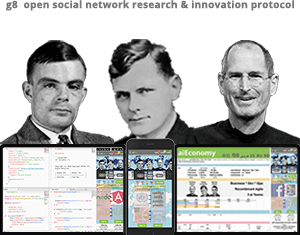
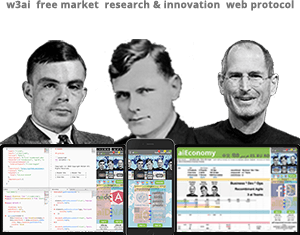
changed title to taskmart

Changed region(s): [[0.0, 0.0, 0.99, 0.0596]]

diff --git a/src/app/welcome/welcome.component.ts b/src/app/welcome/welcome.component.ts
@@ -760,52 +760,52 @@ export class WelcomeComponent implements OnInit, AfterContentInit {
 
   // Continuation callbacks for Project Owner / Governance
   animPoInDone() {
-    this.po_script_in = '<g1> status -';
+    this.po_script_in = '<m1> status -';
     this.po_in_state = 'off';
     this.po_mid_state = 'on';
     this.prjStateImgPath = 'url(/assets/img/dna/';
     this.prjStateImg[0] = 'gtt';
   }
   animPoMidDone() {
-    this.po_script_mid = '<g2> rates -';
+    this.po_script_mid = '<m2> rates -';
     this.po_mid_state = 'off';
     this.po_out_state = 'on';
     this.prjStateImg[0] = 'gnt';
   }
   animPoOutDone() {
-    this.po_script_out = '<g3> terms -';
+    this.po_script_out = '<m3> terms -';
     this.po_out_state = 'off';
     this.po_deal_state = 'on';
     this.prjStateImg[0] = 'ggn';
   }
   animPoDealDone() {
-    this.po_script_deal = '<g4> booked -';
+    this.po_script_deal = '<m4> booked -';
     this.po_deal_state = 'off';
     this.ps_in_state = 'on';    // 'on' - if there is a deal to plan execution
     this.prjStateImg[0] = 'ggg';
   }
   // Continuation callbacks for Project Status / Execution
   animPsInDone() {
-    this.ps_script_in = '<g5> inputs -';
+    this.ps_script_in = '<m5> inputs -';
     this.ps_in_state = 'off';
     this.ps_mid_state = 'on';
     this.prjStateImgPath = 'url(/assets/img/dna/';
     this.prjStateImg[0] = 'tgt_ttg_tnt';
   }
   animPsMidDone() {
-    this.ps_script_mid = '<g6> result -';
+    this.ps_script_mid = '<m6> result -';
     this.ps_mid_state = 'off';
     this.ps_out_state = 'on';
     this.prjStateImg[0] = 'ttg_tgt_ntt';
   }
   animPsOutDone() {
-    this.ps_script_out = '<g7> tests -';
+    this.ps_script_out = '<m7> tests -';
     this.ps_out_state = 'off';
     this.ps_deal_state = 'on';
     this.prjStateImg[0] = 'tgt_gtt_ttt';
   }
   animPsDealDone() {
-    this.ps_script_deal = '<g8> paid -';
+    this.ps_script_deal = '<m8> paid -';
     this.ps_deal_state = 'off';
     // Task was executed and Project Manager to schedule/approve payment
     this.prjStateImg[0] = 'ntt';
@@ -813,52 +813,52 @@ export class WelcomeComponent implements OnInit, AfterContentInit {
 
   // Continuation callbacks for Service Owner / Governance
   animSoInDone() {
-    this.so_script_in = '- status </g1> ✔';
+    this.so_script_in = '- status </m1> ✔';
     this.so_in_state = 'off';
     this.so_mid_state = 'on';
     this.srvStateImgPath = 'url(/assets/img/rna/';
     this.srvStateImg[0] = 'gtt';
   }
   animSoMidDone() {
-    this.so_script_mid = '- rates </g2> ✔';
+    this.so_script_mid = '- rates </m2> ✔';
     this.so_mid_state = 'off';
     this.so_out_state = 'on';
     this.srvStateImg[0] = 'gnt';
   }
   animSoOutDone() {
-    this.so_script_out = '- terms </g3> ✔';
+    this.so_script_out = '- terms </m3> ✔';
     this.so_out_state = 'off';
     this.so_deal_state = 'on';
     this.srvStateImg[0] = 'ggn';
   }
   animSoDealDone() {
-    this.so_script_deal = '- booked </g4> ✔';
+    this.so_script_deal = '- booked </m4> ✔';
     this.so_deal_state = 'off';
     this.ts_in_state = 'on';    // 'on' - if there is a deal to plan task execution
     this.srvStateImg[0] = 'ggg';
   }
   // Continuation callbacks for Task Status / Execution
   animTsInDone() {
-    this.ts_script_in = '- inputs </g5> ✔';
+    this.ts_script_in = '- inputs </m5> ✔';
     this.ts_in_state = 'off';
     this.ts_mid_state = 'on';
     this.srvStateImgPath = 'url(/assets/img/rna/';
     this.srvStateImg[0] = 'tgt_ttg_tnt';
   }
   animTsMidDone() {
-    this.ts_script_mid = '- result </g6> ✔';
+    this.ts_script_mid = '- result </m6> ✔';
     this.ts_mid_state = 'off';
     this.ts_out_state = 'on';
     this.srvStateImg[0] = 'ttg_tgt_ntt';
   }
   animTsOutDone() {
-    this.ts_script_out = '- tests </g7> ✔';
+    this.ts_script_out = '- tests </m7> ✔';
     this.ts_out_state = 'off';
     this.ts_deal_state = 'on';
     this.srvStateImg[0] = 'tgt_gtt_ttt';
   }
   animTsDealDone() {
-    this.ts_script_deal = '- paid </g8> ✔';
+    this.ts_script_deal = '- paid </m8> ✔';
     this.ts_deal_state = 'off';
     this.srvStateImg[0] = 'gtt';
     // Task was executed and Project Manager to schedule/approve payment

diff --git a/src/app/navigation/header/header.component.html b/src/app/navigation/header/header.component.html
@@ -11,29 +11,29 @@
 
 
     <div *ngIf="!(isAuth$ | async)" fxFlex fxLayout fxLayoutAlign="flex-start" fxHide.gt-sm>
-        <a routerLink="/">ai<span class="green-ai">{{ appTitle }}</span></a>
+        <a routerLink="/"><span class="green-ai">{{ appTitle }}</span></a>
     </div>
 
     <div *ngIf="isAuth$ | async" fxFlex fxLayout fxLayoutAlign="flex-start" fxHide.gt-sm>
-        <a routerLink="/"><span class="green-ai">match</span></a>
+        <a routerLink="/"><span class="green-ai">taskmart</span></a>
     </div>
 
     <div xFlex fxLayout fxLayoutAlign="flex-start" fxHide.lt-md>
-        <a class="desktop" routerLink="/">ai<span class="green-ai">{{ appTitle }} </span><span class="dev"> </span></a>
+        <a class="desktop" routerLink="/"><span class="green-ai">{{ appTitle }} </span><span class="dev"> </span></a>
     </div>
 
     <div fxFlex fxLayout fxLayoutAlign="flex-end" fxHide.gt-sm>
         <ul fxLayout fxLayoutAlign="center center" fxLayoutGap="12px" fxLayoutGap.gt-xs="20px" class="navigation-items">
-            <li *ngIf="isAuth$ | async"><a routerLink="/project"><span matBadge="3" matBadgeColor="accent">todo</span></a></li>            
-            <li *ngIf="isAuth$ | async"><a routerLink="/session"><span matBadge="6" matBadgeColor="warn">match</span></a></li>
-            <li *ngIf="isAuth$ | async"><a routerLink="/venture"><span class="alternate-theme" matBadge="5" matBadgeColor="primary">done</span></a></li>
+            <li *ngIf="isAuth$ | async"><a routerLink="/project"><span matBadge="3" matBadgeColor="accent">task</span></a></li>            
+            <li *ngIf="isAuth$ | async"><a routerLink="/session"><span matBadge="6" matBadgeColor="warn">plan</span></a></li>
+            <li *ngIf="isAuth$ | async"><a routerLink="/venture"><span class="alternate-theme" matBadge="5" matBadgeColor="primary">fund</span></a></li>
         </ul>
     </div>
     
     <div fxFlex fxLayout fxLayoutAlign="flex-end" fxHide.lt-md>
         <ul fxLayout fxLayoutAlign="center center" fxLayoutGap="12px" fxLayoutGap.gt-xs="20px" class="navigation-items">
 
-            <li *ngIf="isAuth$ | async"><a routerLink="/project"><span matBadge="3" matBadgeColor="accent" matBadgeOverlap="true">todo</span></a></li>
+            <li *ngIf="isAuth$ | async"><a routerLink="/project"><span matBadge="3" matBadgeColor="accent" matBadgeOverlap="true">task</span></a></li>
             <li *ngIf="isAuth$ | async"><a routerLink="/session"><span matBadge="6" matBadgeColor="warn">code</span></a></li>
             <li *ngIf="isAuth$ | async"><a routerLink="/venture"><span matBadge="5" class="alternate-theme" matBadgeColor="primary" matBadgeOverlap="true">fund</span></a></li>
             <li *ngIf="isAuth$ | async"><a routerLink="/session"><span matBadge="8" class="bot-theme" matBadgeColor="primary" matBadgeOverlap="true">ai</span></a></li>

diff --git a/src/app/welcome/welcome.component.html b/src/app/welcome/welcome.component.html
@@ -7,7 +7,7 @@
 <!-- business &nbsp; growth &nbsp; machine &nbsp; <span style="font-size: 20px;">G8</span> -->
 <!-- aiDNA cell G8 touring church jobs -->
 <!--solving &nbsp; world's &nbsp; problems -->
-request &nbsp; match &nbsp; response
+solving &nbsp; world's &nbsp; problems
 </h4>
   </div>
 
@@ -39,7 +39,7 @@ request &nbsp; match &nbsp; response
         <li fxHide.lt-md class="ranks" fxLayout="column" fxLayoutAlign="center center" fxLayoutGap="5px">
           <h6 class="carousel"
             title="Ranking based on Alfred North Whitehead formula - Civilization Rank = Number of unique automated services">
-            innovation rank: number of ai/g8 scripts</h6>
+            innovation rank: number of task scripts</h6>
           <ol class="container-index" fxLayout="row" fxLayoutAlign="center center" fxLayoutGap="10px">
             <li class="rank"><img class="rank-flag" src="/assets/flags/us.png"><br>en</li>
             <li class="rank"><img class="rank-flag" src="/assets/flags/cn.png"><br>zh</li>
@@ -75,7 +75,7 @@ request &nbsp; match &nbsp; response
         <li fxHide.lt-md class="ranks" fxLayout="column" fxLayoutAlign="center center" fxLayoutGap="5px">
           <h6 class="carousel"
             title="Ranking based on Alfred North Whitehead formula - Progress Rank = Speed of adding new types of automated services">
-            progress rate: ai/g8 scripts releases/day</h6>
+            progress rate: task scripts releases/day</h6>
           <ol class="container-index" fxLayout="row" fxLayoutAlign="center center" fxLayoutGap="10px">
             <li class="rank"><img class="rank-flag" src="/assets/flags/cn.png"><br>zh</li>
             <li class="rank"><img class="rank-flag" src="/assets/flags/us.png"><br>en</li>

diff --git a/src/app/session/edit-session/edit-session.component.html b/src/app/session/edit-session/edit-session.component.html
@@ -9,7 +9,7 @@
     <h3>GIT8 engine</h3> -->
   <section class="venture">
 
-      <h5>branches &nbsp; > &nbsp; solutions &nbsp; > &nbsp; innovations</h5>
+      <h5>steps &nbsp; > &nbsp; solutions &nbsp; > &nbsp; innovations</h5>
 
     <section id="control" class="venture" fxLayout="row" fxLayoutAlign="center center" fxLayoutGap="10px">
       <app-dna-control (intervalFired)="onIntervalFired($event)">

diff --git a/src/app/navigation/header/header.component.ts b/src/app/navigation/header/header.component.ts
@@ -16,7 +16,7 @@ import { SetupService } from '../../setup.service';
 export class HeaderComponent implements OnInit {
   @Output() sidenavToggle = new EventEmitter<void>();
   isAuth$: Observable<boolean>;
-  appTitle = 'Matcher';
+  appTitle = 'taskmart';
 
   constructor(private store: Store<fromRoot.State>, 
               private authService: AuthService,

diff --git a/src/app/welcome/welcome.component.css b/src/app/welcome/welcome.component.css
@@ -466,7 +466,7 @@ table {
 
 .speed {
     position: relative;
-    top: -56px;
+    top: -60px;
     z-index: 30;
     text-align: center;
     font-family: arial, sans-serif;
@@ -477,7 +477,7 @@ table {
 
 .speed-type {
     position: relative;
-    top: -10px;
+    top: -35px;
     color: whitesmoke;
 }
 
